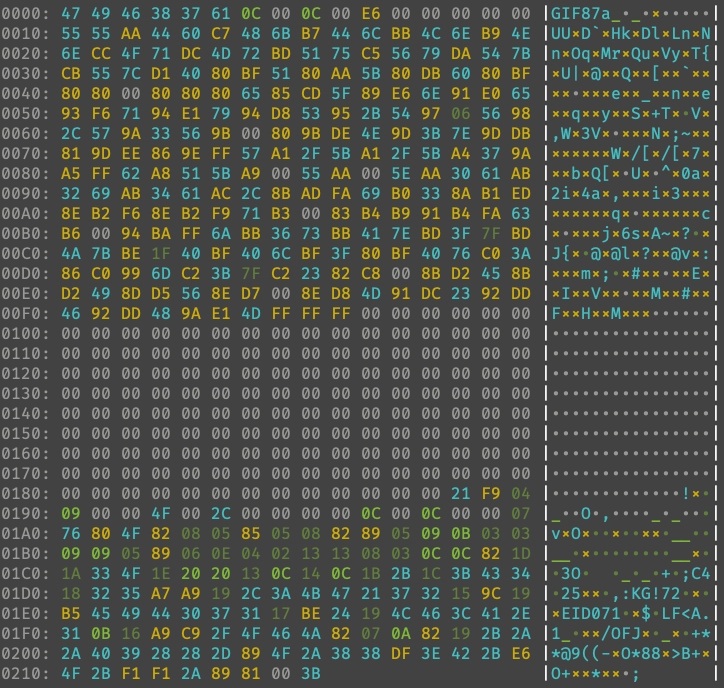
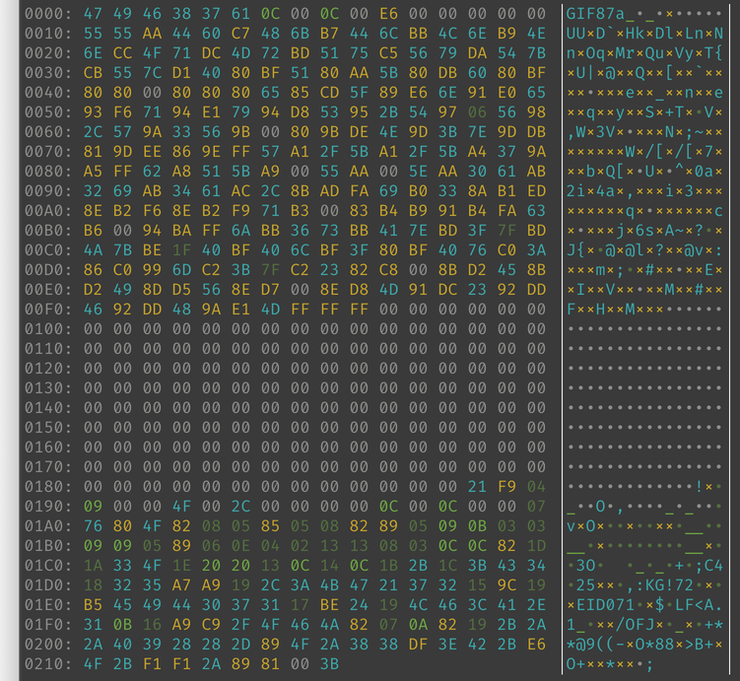
Reduce extra spacing around borders in the default table style

diff --git a/CHANGES.md b/CHANGES.md
@@ -1,3 +1,8 @@
+## 3.6.4 -- UNRELEASED
+
+* The default layout for tables has been tightened up
+
+
 ## 3.6.3 -- 12 Aug 2025
 
 * Restore the `io.aviso.exception` and `io.aviso.repl shim` namespaces
